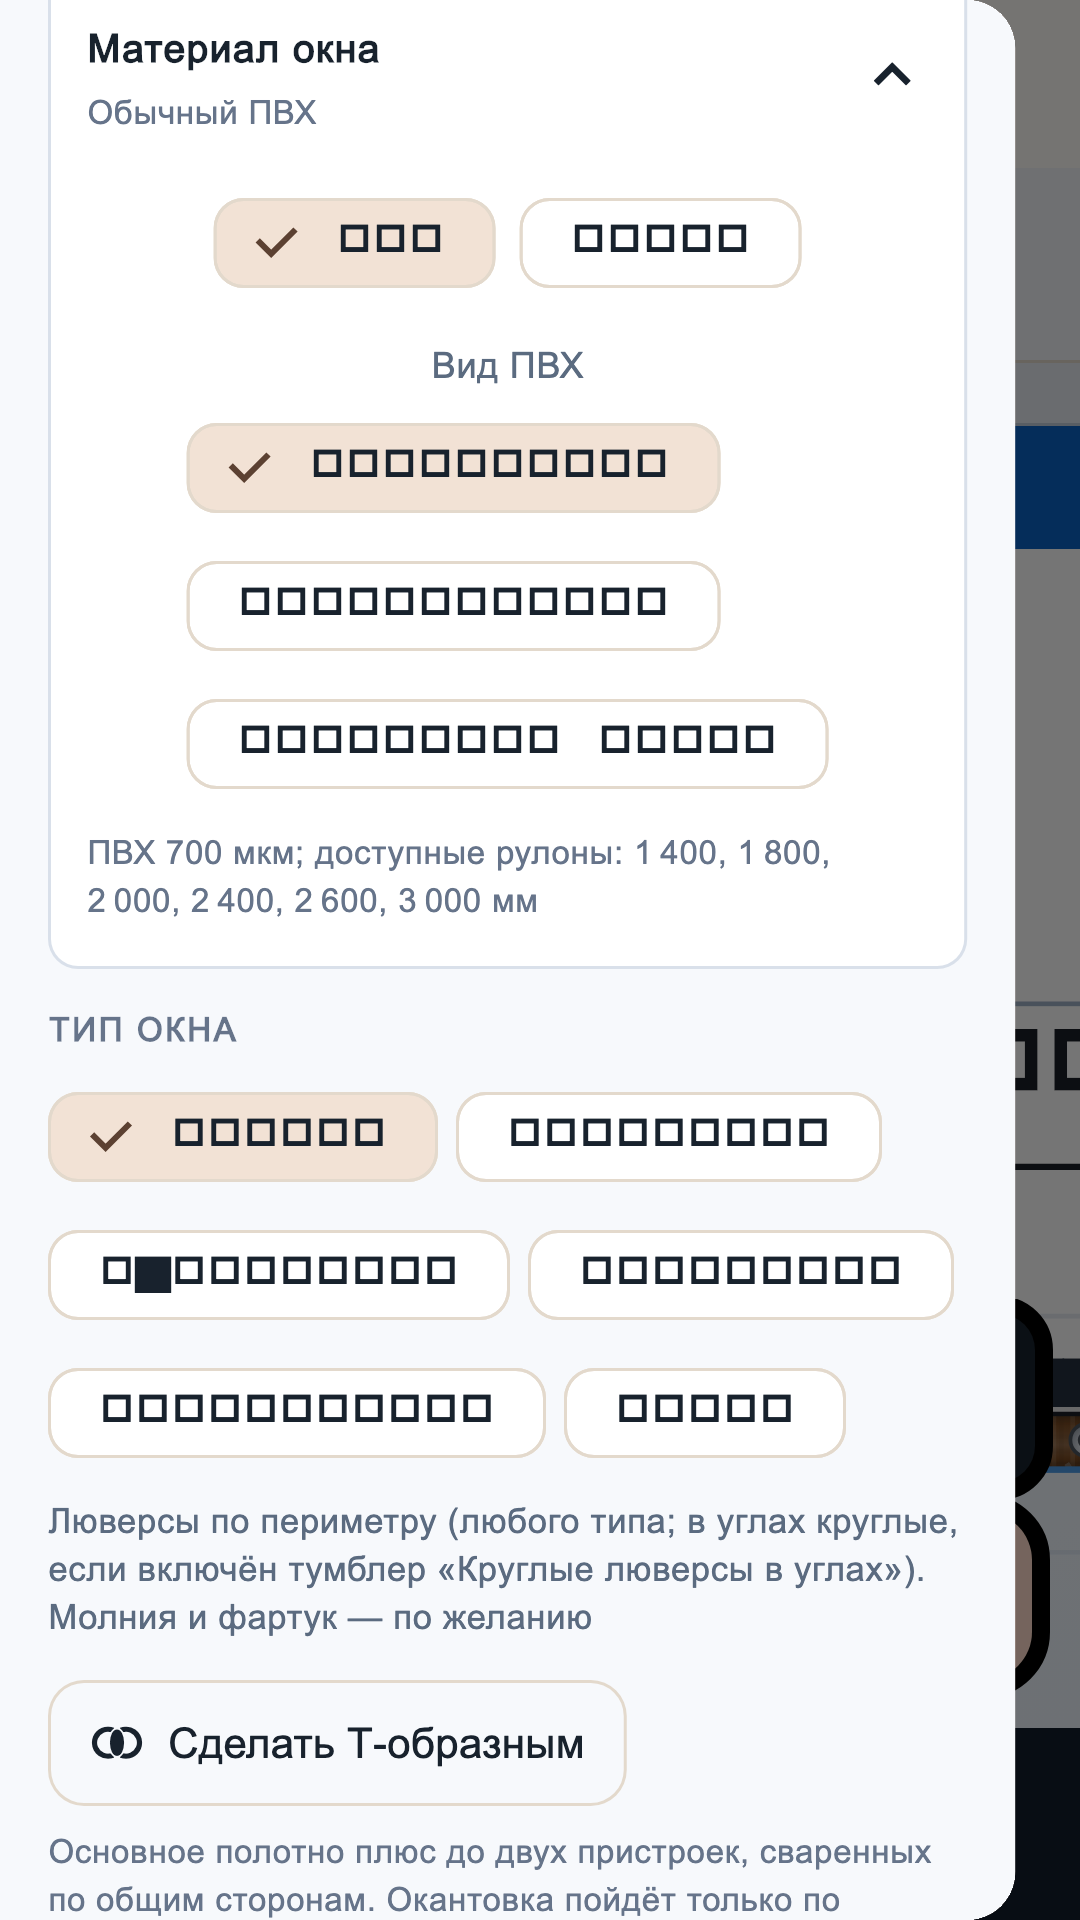
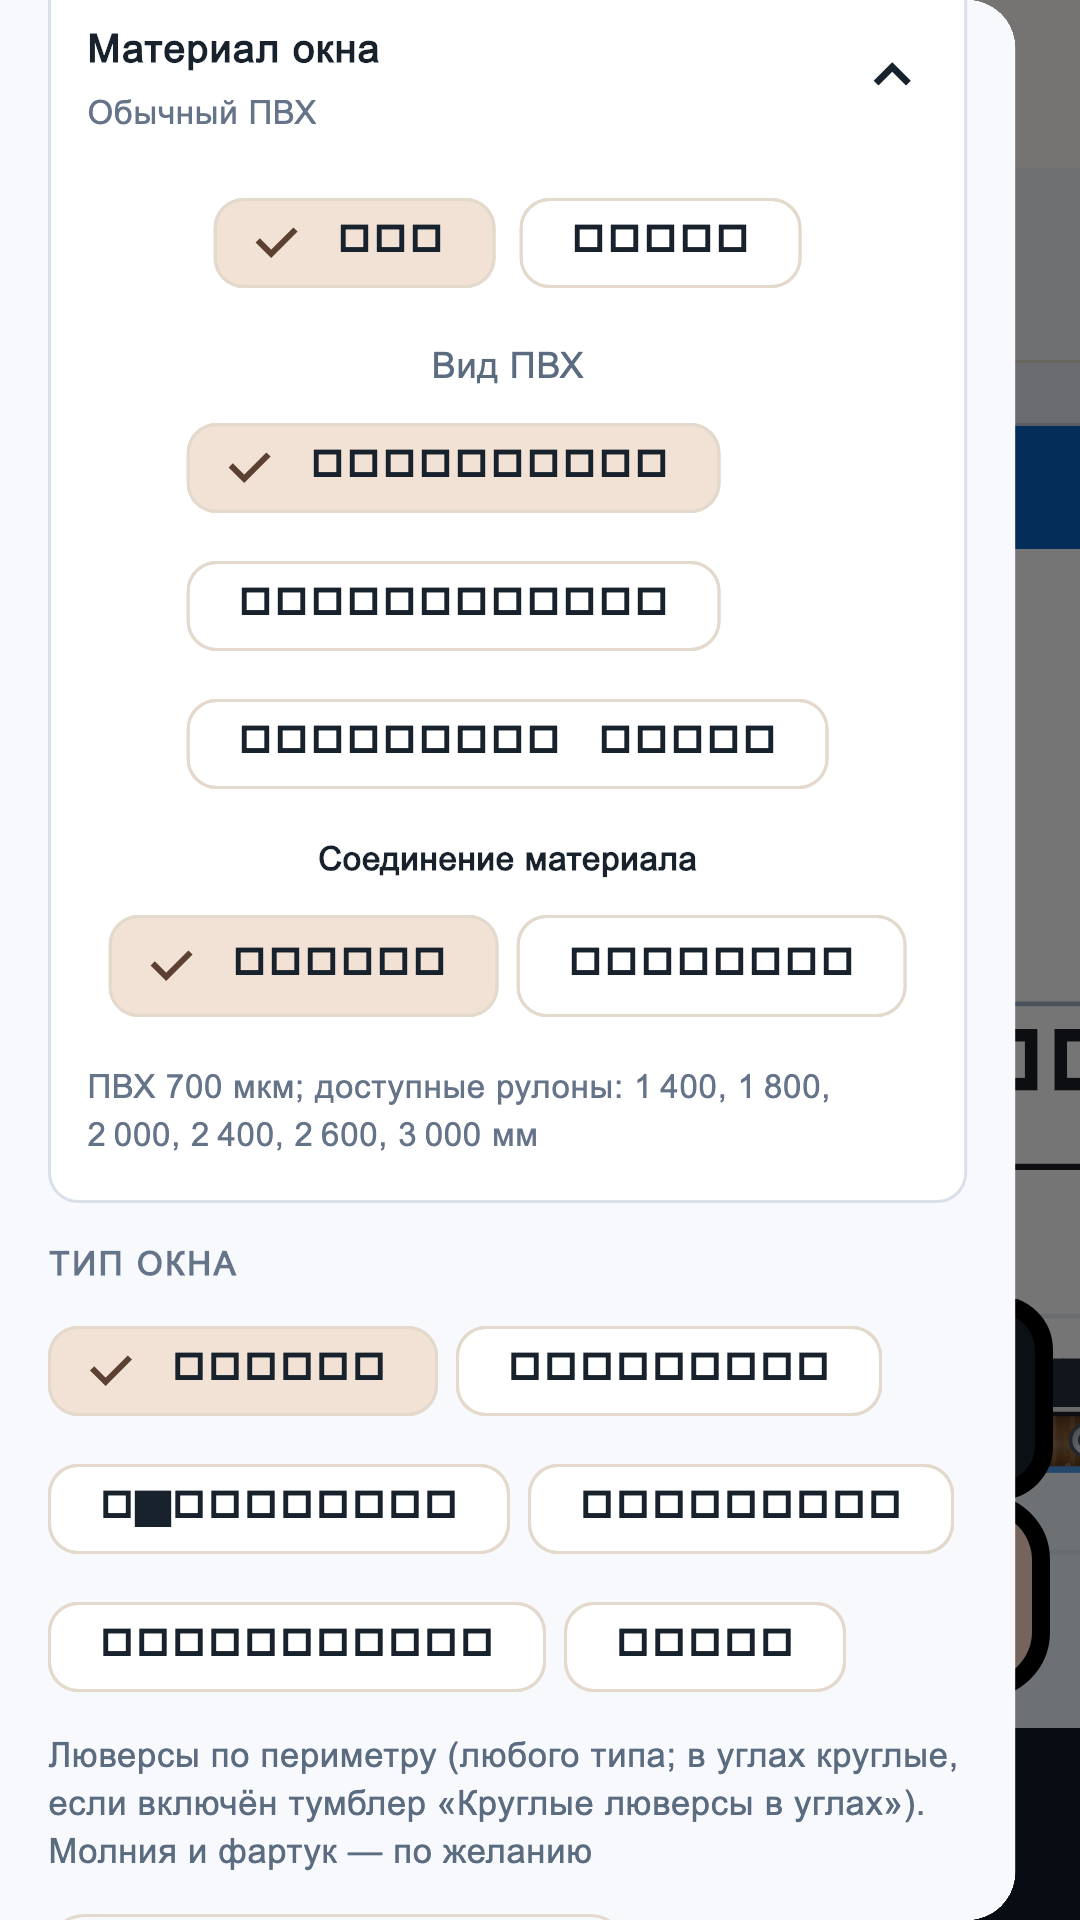
Быстрые правки: пластиковая скоба вертикально, новая картинка, общая ширина сегментов, спайка/сшивание

Changed region(s): [[0.0306, 0.4375, 0.8861, 1.0]]

diff --git a/lib/widgets/params_panel.dart b/lib/widgets/params_panel.dart
@@ -1787,6 +1787,34 @@ class _ParamsPanelState extends State<ParamsPanel> {
             style: TextStyle(fontSize: 11, color: Color(0xFF66748A)),
           ),
         ],
+        if (!params.isScreen) ...[
+          const SizedBox(height: 10),
+          const Text(
+            'Соединение материала',
+            style: TextStyle(fontSize: 11, fontWeight: FontWeight.w600),
+          ),
+          const SizedBox(height: 4),
+          Wrap(
+            spacing: 6,
+            children: [
+              ChoiceChip(
+                key: const Key('join-weld'),
+                label: const Text('Спайка'),
+                selected: params.weldOverlapMm > 1,
+                onSelected: (_) => _updateWindow(
+                  params.copyWith(weldOverlapMm: defaultWeldOverlapMm),
+                ),
+              ),
+              ChoiceChip(
+                key: const Key('join-stitch'),
+                label: const Text('Сшивание'),
+                selected: params.weldOverlapMm <= 1,
+                onSelected: (_) =>
+                    _updateWindow(params.copyWith(weldOverlapMm: 1)),
+              ),
+            ],
+          ),
+        ],
         const SizedBox(height: 8),
         Text(
           '${params.material.thickness}; доступные рулоны: '

diff --git a/web/updates/index.html b/web/updates/index.html
@@ -14,11 +14,11 @@
 </head>
 <body>
   <main>
-    <h1>Обновление 1.6.7</h1>
+    <h1>Обновление 1.6.8</h1>
     <p>Скачайте установщик для своей системы и установите поверх текущей версии.</p>
-    <a href="https://pub-0f1422253d90493ebf4b3a585b198489.r2.dev/releases/1.6.7/MyagkieOknaExcl-windows.zip">Windows (ZIP)</a>
-    <a class="mac" href="https://pub-0f1422253d90493ebf4b3a585b198489.r2.dev/releases/1.6.7/MyagkieOknaExcl-macos.dmg">macOS (DMG)</a>
-    <p><small>Новый светлый дизайн, расстояния креплений в панели чертежа, кнопка связи с ПК на телефоне, резервные копии заказов.</small></p>
+    <a href="https://pub-0f1422253d90493ebf4b3a585b198489.r2.dev/releases/1.6.8/MyagkieOknaExcl-windows.zip">Windows (ZIP)</a>
+    <a class="mac" href="https://pub-0f1422253d90493ebf4b3a585b198489.r2.dev/releases/1.6.8/MyagkieOknaExcl-macos.dmg">macOS (DMG)</a>
+    <p><small>Статусы заказов, расстояния креплений в панели, связь с ПК на телефоне, резервные копии.</small></p>
   </main>
 </body>
 </html>

diff --git a/test/french_lock_artwork_test.dart b/test/french_lock_artwork_test.dart
@@ -141,14 +141,14 @@ void main() {
       );
     });
 
-    testWidgets('декодируется из бандла в картинку 237 × 348', (tester) async {
+    testWidgets('декодируется из бандла в картинку 299 × 369', (tester) async {
       FastenerArtwork.reset();
       final image = await tester.runAsync(
         () => FastenerArtwork.ensureFrenchLock(),
       );
       expect(image, isNotNull, reason: 'картинка грузится из rootBundle');
-      expect(image!.width, 237);
-      expect(image.height, 348);
+      expect(image!.width, 299);
+      expect(image.height, 369);
       // Кэш: второй вызов отдаёт ту же картинку, без повторного декодирования.
       final again = await FastenerArtwork.ensureFrenchLock();
       expect(identical(again, image), isTrue);

diff --git a/lib/widgets/cut_sheet.dart b/lib/widgets/cut_sheet.dart
@@ -1294,11 +1294,20 @@ class CutSheetPainter extends CustomPainter {
             '${formatMm(spec.filmCutWidthWithShrinkage)} × '
             '${formatMm(spec.filmCutHeightWithShrinkage)} ${unitSuffix()}',
     ];
+    if (spec.zipperSegmentWidths.length > 1) {
+      final total = boundsOfAll(spec.filmCutPolygons).width;
+      _label(
+        canvas,
+        'Общая ширина сегментов ${formatMm(total)} ${unitSuffix()}',
+        Offset(rect.center.dx, rect.bottom + 100),
+        color: _ink,
+      );
+    }
     if (parts.isNotEmpty) {
       _label(
         canvas,
         parts.join(' · '),
-        Offset(rect.center.dx, rect.bottom + 96),
+        Offset(rect.center.dx, rect.bottom + (spec.zipperSegmentWidths.length > 1 ? 120 : 96)),
         small: true,
         color: _dim,
       );
